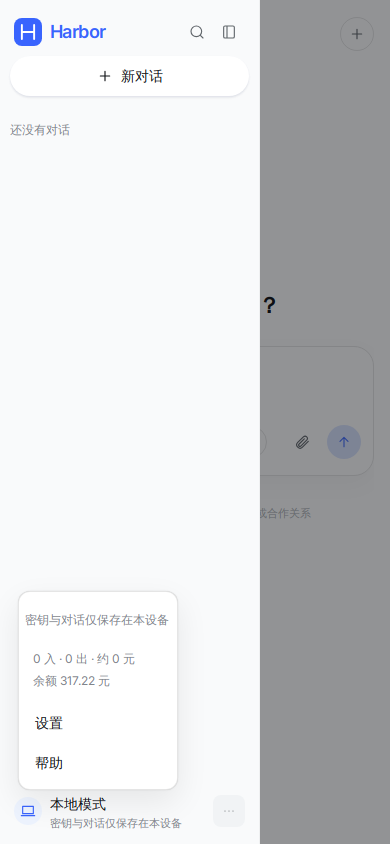
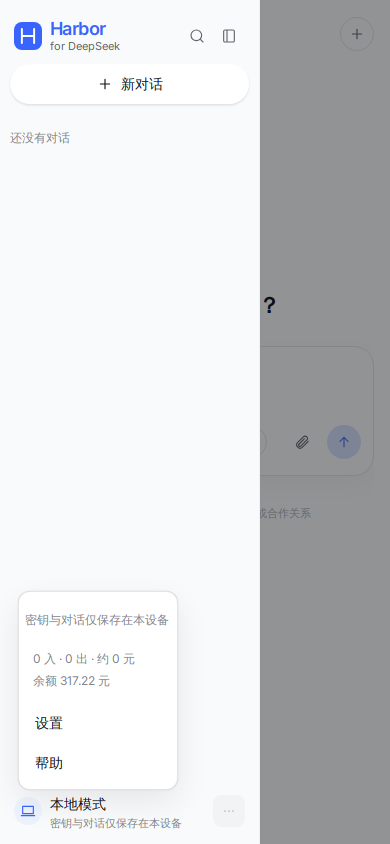
Show Harbor for DeepSeek beside the mark. (#12)
The sidebar keeps the H icon, with Harbor in the current weight and for DeepSeek on the next line in smaller secondary type. The document title and install name match. Launcher labels stay Harbor.

diff --git a/apps/web/e2e/chat.spec.ts b/apps/web/e2e/chat.spec.ts
@@ -81,6 +81,7 @@ const install = async (page: Page) => {
 test('chats with mocks, switches tools, and round-trips an export', async ({ page }) => {
   await install(page)
   await page.goto('/')
+  await expect(page).toHaveTitle('Harbor for DeepSeek')
   await expect(page.getByRole('heading', { name: 'Harbor' })).toBeVisible()
   await expect(page.locator('.legal').first()).toContainText('非官方社区项目')
   await page.screenshot({ path: join(shots, '01-key-gate.png'), fullPage: true })
@@ -89,6 +90,9 @@ test('chats with mocks, switches tools, and round-trips an export', async ({ pag
   await page.getByTestId('key-input').fill('demo-local-key')
   await page.getByTestId('key-save').click()
   await expect(page.getByTestId('composer')).toBeVisible()
+  await expect(page.locator('.wordmark-main')).toHaveText('Harbor')
+  await expect(page.locator('.wordmark-for')).toHaveText('for DeepSeek')
+  await page.screenshot({ path: join(shots, 'brand-light.png'), clip: { x: 0, y: 0, width: 280, height: 80 } })
   await page.getByTestId('user-menu').click()
   await expect(page.getByTestId('balance-side')).toContainText('317.22')
   await page.getByTestId('user-menu').click()
@@ -114,6 +118,7 @@ test('chats with mocks, switches tools, and round-trips an export', async ({ pag
   await page.getByRole('button', { name: '深色' }).click()
   await page.getByTestId('settings-dialog').getByRole('button', { name: '关闭' }).click()
   await page.screenshot({ path: join(shots, '13-dark.png') })
+  await page.screenshot({ path: join(shots, 'brand-dark.png'), clip: { x: 0, y: 0, width: 280, height: 80 } })
   await page.getByTestId('user-menu').click()
   await page.getByTestId('settings-open').click()
   await page.getByRole('button', { name: '浅色' }).click()
@@ -214,6 +219,8 @@ test('phone layout matches the docked chat, drawer, and sheets', async ({ page }
   await page.getByTestId('settings-open').click()
   await page.getByRole('button', { name: '深色' }).click()
   await page.getByTestId('settings-dialog').getByRole('button', { name: '关闭' }).click()
+  await expect(page.locator('.wordmark-for')).toHaveText('for DeepSeek')
+  await page.screenshot({ path: join(shots, 'm-drawer-dark.png') })
   await page.getByTestId('sidebar').getByRole('button', { name: '隐藏' }).click()
   await page.screenshot({ path: join(shots, 'm-dark.png') })
 })

diff --git a/apps/web/src/styles.css b/apps/web/src/styles.css
@@ -34,15 +34,29 @@ a { color: var(--dsw-alias-brand-text); }
   align-items: center;
   gap: 8px;
 }
-.sider-top { height: 44px; justify-content: space-between; padding: 4px 4px 8px; }
+.sider-top { min-height: 52px; height: auto; justify-content: space-between; padding: 4px 4px 8px; }
 .brand-name {
   display: flex;
   align-items: center;
   gap: 8px;
+  min-width: 0;
+  flex: 1;
+}
+.wordmark { display: flex; flex-direction: column; justify-content: center; min-width: 0; line-height: 1.15; }
+.wordmark-main {
   font-weight: 650;
   font-size: 18px;
   letter-spacing: -0.03em;
   color: var(--dsw-alias-brand-text);
+}
+.wordmark-for {
+  font-weight: 400;
+  font-size: 11px;
+  letter-spacing: 0;
+  color: var(--dsw-alias-label-secondary);
+  white-space: nowrap;
+  overflow: hidden;
+  text-overflow: ellipsis;
 }
 .icon-btn, .menu-item, .chip, .send, .new-chat, .ghost {
   border: 0;

diff --git a/apps/web/src/ui.tsx b/apps/web/src/ui.tsx
@@ -448,7 +448,13 @@ export const Shell = () => {
     <div className={`shell ${state.sidebarOpen ? 'nav-open' : ''} ${collapsed ? 'sider-collapsed' : ''} ${panel ? 'panel-open' : ''}`}>
       <aside className="sidebar" data-testid="sidebar">
         <div className="sider-top">
-          <span className="brand-name"><Mark /> Harbor</span>
+          <span className="brand-name">
+            <Mark />
+            <span className="wordmark">
+              <span className="wordmark-main">Harbor</span>
+              <span className="wordmark-for">for DeepSeek</span>
+            </span>
+          </span>
           <span className="sider-icons">
             <button className="icon-btn" type="button" aria-label={t('search')} onClick={() => setFiltering((value) => !value)}>
               <Icon d="M11 19a8 8 0 1 1 0-16 8 8 0 0 1 0 16Zm10 2-4.3-4.3" />

diff --git a/apps/server/src/app.ts b/apps/server/src/app.ts
@@ -1522,7 +1522,7 @@ app.get('/api/admin/settings', async (c) => {
 
   const serveIndex = async (c: { html: (body: string) => Response | Promise<Response> }) => {
     if (!options.staticDir) {
-      return c.html('<!doctype html><title>Harbor</title>')
+      return c.html('<!doctype html><title>Harbor for DeepSeek</title>')
     }
     const html = await readFile(`${options.staticDir}/index.html`, 'utf8')
     return c.html(html.replace('</head>', '<meta name="harbor-server" content="1"></head>'))

diff --git a/apps/web/index.html b/apps/web/index.html
@@ -10,7 +10,7 @@
     <meta name="color-scheme" content="light" />
     <link rel="icon" href="/favicon.svg" type="image/svg+xml" />
     <link rel="manifest" href="/manifest.webmanifest" />
-    <title>Harbor</title>
+    <title>Harbor for DeepSeek</title>
   </head>
   <body>
     <div id="root"></div>

diff --git a/CHANGELOG.md b/CHANGELOG.md
@@ -1,5 +1,9 @@
 # Changelog
 
+## 0.5.3 — 2026-11-18
+
+The sidebar mark is followed by Harbor, with “for DeepSeek” in smaller secondary type on the next line. The document title and the install name match. Launcher labels stay Harbor.
+
 ## 0.5.2 — 2026-11-18
 
 The lightweight footer says 本地模式 / Local mode. A nickname replaces that label and leaves 本地模式 as the subtitle. Server accounts show 服务器模式 / Server mode.
